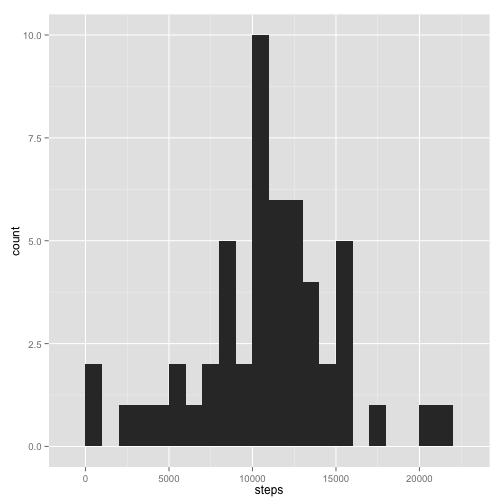
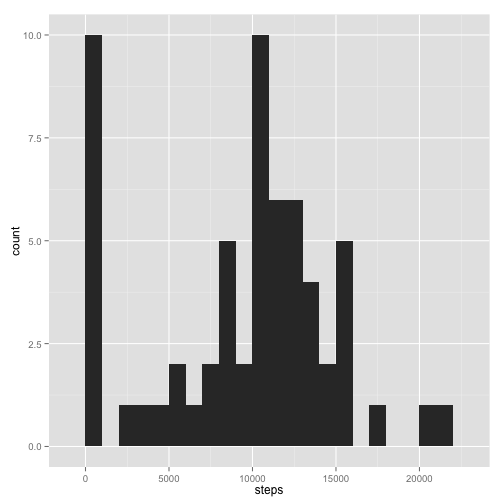
Taking into account 0 samples

Changed region(s): [[0.1488, 0.0595, 0.2083, 0.744]]

diff --git a/PA1_template.html b/PA1_template.html
@@ -214,29 +214,29 @@ activity$date &lt;- as.Date(activity$date)
 <p>For getting an answer to this question, we need to get a new data frame with the total steps added for each date. With it, we can create an histogram, and calculate the mean and median.</p>
 
 <pre><code class="r">library(ggplot2)
-a &lt;- aggregate(steps ~ date, activities[!is.na(activities[&quot;steps&quot;]),], sum)
+a &lt;- aggregate(activities[&quot;steps&quot;], by=activities[&quot;date&quot;], FUN=sum, na.rm = TRUE)
 ggplot(a, aes(x = steps)) + geom_histogram(binwidth = 1000)
 </code></pre>
 
[2 lines of base64/hex data omitted]
 
 <pre><code class="r">mean(a$steps, na.rm = TRUE)
 </code></pre>
 
-<pre><code>## [1] 10766.19
+<pre><code>## [1] 9354.23
 </code></pre>
 
 <pre><code class="r">median(a$steps, na.rm = TRUE)
 </code></pre>
 
-<pre><code>## [1] 10765
+<pre><code>## [1] 10395
 </code></pre>
 
 <h2>What is the average daily activity pattern?</h2>
 
 <p>Again, for answering this question we need to create a new data frame, this time with the mean of steps for each interval. With it, we can create a plot and calculate the interval with most steps.</p>
 
-<pre><code class="r">b &lt;- aggregate(steps ~ interval, activities[!is.na(activities[&quot;steps&quot;]),], mean)
+<pre><code class="r">b &lt;- aggregate(activities[&quot;steps&quot;], by=activities[&quot;interval&quot;], FUN=mean, na.rm = TRUE)
 names(b)[2] &lt;- &quot;mean_steps&quot;
 ggplot(b, aes(x = interval, y = mean_steps)) + geom_line()
 </code></pre>
@@ -268,7 +268,7 @@ ggplot(b, aes(x = interval, y = mean_steps)) + geom_line()
 no_nans$steps &lt;- ifelse(is.na(no_nans$steps), round(no_nans$mean_steps), no_nans$steps)
 no_nans$mean_steps &lt;- NULL
 
-c &lt;- aggregate(steps ~ date, no_nans, sum)
+c &lt;- aggregate(no_nans[&quot;steps&quot;], by=no_nans[&quot;date&quot;], FUN=sum, na.rm = TRUE)
 ggplot(c, aes(x = steps)) + geom_histogram(binwidth = 1000)
 </code></pre>
 
@@ -297,9 +297,11 @@ ggplot(c, aes(x = steps)) + geom_histogram(binwidth = 1000)
 <pre><code class="r">no_nans$date &lt;- as.Date(no_nans$date)
 no_nans$weekpart &lt;- as.factor(ifelse(weekdays(no_nans$date) %in% c(&quot;Saturday&quot;,&quot;Sunday&quot;), &quot;weekend&quot;, &quot;weekday&quot;))
 
-d &lt;- aggregate(steps ~ interval, no_nans[no_nans$weekpart == &quot;weekday&quot;, ], mean)
+weekpart_df &lt;- no_nans[no_nans$weekpart == &quot;weekday&quot;, ]
+d &lt;- aggregate(weekpart_df[&quot;steps&quot;], by=weekpart_df[&quot;interval&quot;], FUN=mean, na.rm = TRUE)
 d$weekpart &lt;- &quot;weekday&quot;
-e &lt;- aggregate(steps ~ interval, no_nans[no_nans$weekpart == &quot;weekend&quot;, ], mean)
+weekend_df &lt;- no_nans[no_nans$weekpart == &quot;weekend&quot;, ]
+e &lt;- aggregate(weekend_df[&quot;steps&quot;], by=weekend_df[&quot;interval&quot;], FUN=mean, na.rm = TRUE)
 e$weekpart &lt;- &quot;weekend&quot;
 f &lt;- merge(d,e, all=TRUE)
 

diff --git a/PA1_template.md b/PA1_template.md
@@ -24,7 +24,7 @@ For getting an answer to this question, we need to get a new data frame with the
 
 ```r
 library(ggplot2)
-a <- aggregate(steps ~ date, activities[!is.na(activities["steps"]),], sum)
+a <- aggregate(activities["steps"], by=activities["date"], FUN=sum, na.rm = TRUE)
 ggplot(a, aes(x = steps)) + geom_histogram(binwidth = 1000)
 ```
 
@@ -35,7 +35,7 @@ mean(a$steps, na.rm = TRUE)
 ```
 
 ```
-## [1] 10766.19
+## [1] 9354.23
 ```
 
 ```r
@@ -43,7 +43,7 @@ median(a$steps, na.rm = TRUE)
 ```
 
 ```
-## [1] 10765
+## [1] 10395
 ```
 
 
@@ -53,7 +53,7 @@ Again, for answering this question we need to create a new data frame, this time
 
 
 ```r
-b <- aggregate(steps ~ interval, activities[!is.na(activities["steps"]),], mean)
+b <- aggregate(activities["steps"], by=activities["interval"], FUN=mean, na.rm = TRUE)
 names(b)[2] <- "mean_steps"
 ggplot(b, aes(x = interval, y = mean_steps)) + geom_line()
 ```
@@ -92,7 +92,7 @@ no_nans <- merge(activities, b, by="interval")
 no_nans$steps <- ifelse(is.na(no_nans$steps), round(no_nans$mean_steps), no_nans$steps)
 no_nans$mean_steps <- NULL
 
-c <- aggregate(steps ~ date, no_nans, sum)
+c <- aggregate(no_nans["steps"], by=no_nans["date"], FUN=sum, na.rm = TRUE)
 ggplot(c, aes(x = steps)) + geom_histogram(binwidth = 1000)
 ```
 
@@ -127,9 +127,11 @@ With this data frame, we can generate a plot that answers the question. The plot
 no_nans$date <- as.Date(no_nans$date)
 no_nans$weekpart <- as.factor(ifelse(weekdays(no_nans$date) %in% c("Saturday","Sunday"), "weekend", "weekday"))
 
-d <- aggregate(steps ~ interval, no_nans[no_nans$weekpart == "weekday", ], mean)
+weekpart_df <- no_nans[no_nans$weekpart == "weekday", ]
+d <- aggregate(weekpart_df["steps"], by=weekpart_df["interval"], FUN=mean, na.rm = TRUE)
 d$weekpart <- "weekday"
-e <- aggregate(steps ~ interval, no_nans[no_nans$weekpart == "weekend", ], mean)
+weekend_df <- no_nans[no_nans$weekpart == "weekend", ]
+e <- aggregate(weekend_df["steps"], by=weekend_df["interval"], FUN=mean, na.rm = TRUE)
 e$weekpart <- "weekend"
 f <- merge(d,e, all=TRUE)
 
